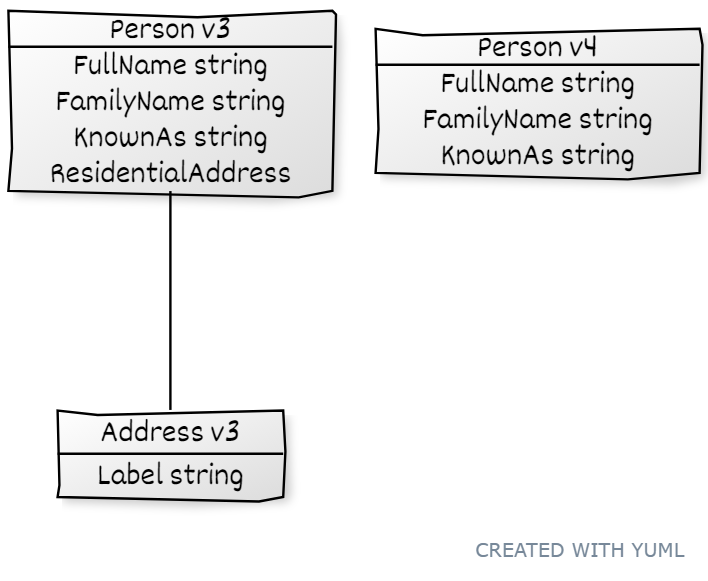
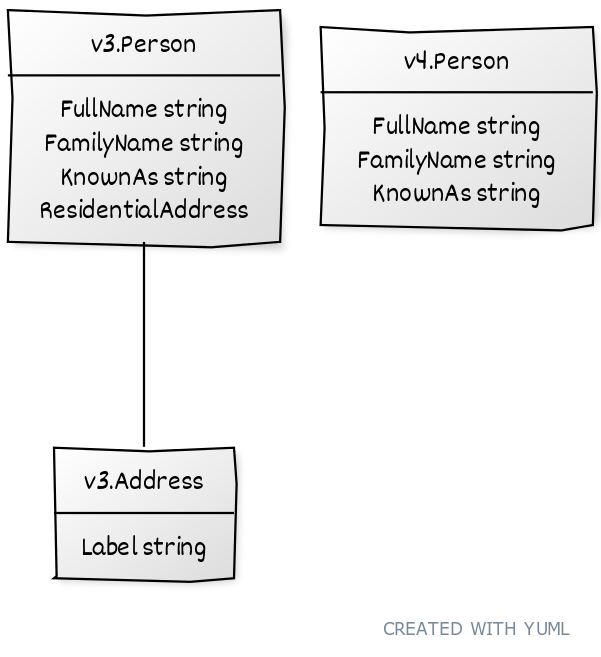
Update draft

Changed region(s): [[0.0, 0.0, 0.4792, 0.8985], [0.5092, 0.031, 1.0, 0.3718], [0.629, 0.9294, 0.9584, 0.9914]]

diff --git a/docs/hugo/content/design/ADR-2023-09-Skipping-Properties/_index.md b/docs/hugo/content/design/ADR-2023-09-Skipping-Properties/_index.md
@@ -4,7 +4,7 @@ title: 2023-09 Complex Properties that Skip Versions
 
 ## Context
 
-We have a long standing issue (originally documented in [#1776](https://github.com/Azure/azure-service-operator/issues/1776)) where our conversions between versions will break if a complex (object valued) property is reintroduced in a later version after being removed in an earlier one.
+We have a long standing issue (originally documented in [#1776](https://github.com/Azure/azure-service-operator/issues/1776)) where our conversions between versions will break if a complex (object valued) property is reintroduced with a different shape in a later version after being removed in an earlier one.
 
 **TL;DR:** The crux of the problem is that we can currently end up with two different versions (shapes) of the same property serialized in a property bag on the same intermediate version.
 
@@ -15,9 +15,9 @@ To clarify, consider the following examples, demonstrating the current behaviour
 Consider a CRM system containing details of people. In **v3** of the system, we capture each person's residental address, but in **v4** we have dropped that property.
 
 <!-- yuml.me
-[Person v3|FullName string;FamilyName string; KnownAs string;ResidentialAddress]
-[Person v3]--[Address v3|Label string]
-[Person v4|FullName string;FamilyName string; KnownAs string]
+[v3.Person|FullName string;FamilyName string; KnownAs string;ResidentialAddress]
+[v3.Person]--[v3.Address|Label string]
+[v4.Person|FullName string;FamilyName string; KnownAs string]
 -->
 
 {{< figure src="version-4.png" >}}
@@ -33,9 +33,9 @@ Conversion back and forward between versions **v3** and **v4** works fine.
 In **v5**, the `ResidentialAddress` is reintroduced, but with a different shape. Instead of being the single field `Label`, it now has multiple fields.
 
 <!-- yuml.me 
-[Person v4|FullName string;FamilyName string; KnownAs string|PropertyBag PropertyBag]
-[Person v5|FullName string;FamilyName string; KnownAs string;ResidentialAddress|PropertyBag PropertyBag]
-[Person v5]--[Address v5|Street string;Suburb string;City string|PropertyBag PropertyBag]
+[v4.Person|FullName string;FamilyName string; KnownAs string|PropertyBag PropertyBag]
+[v5.Person|FullName string;FamilyName string; KnownAs string;ResidentialAddress|PropertyBag PropertyBag]
+[v5.Person]--[v5.Address|Street string; Suburb string; City string|PropertyBag PropertyBag]
 -->
 
 {{< figure src="version-5.png" >}}
@@ -48,27 +48,31 @@ Conversion back and forward between versions **v4** and **v5** works fine.
 
 ### The Problem
 
-Observe how we can end up with two different variants of **v4** `Person`. We can end up with one where the property bag contains a **v3** `Address` or we can end up with one where the property bag contains a **v5** `Address`.
+Observe how we can end up with two different variants of **v4** `Person`. In one case, we have a **v4** `Person` where the property bag contains a **v3** `Address`; in the other case, we have a **v4** `Person` the property bag contains a **v5** `Address`.
 
 Here is where we run into problems.
 
 <!-- yuml.me
-[Person v3|FullName string;FamilyName string; KnownAs string;ResidentialAddress]
-[Person v3]--[Address v3|Label string]
-[Person v4|FullName string;FamilyName string; KnownAs string|PropertyBag PropertyBag]
-[Person v5|FullName string;FamilyName string; KnownAs string;ResidentialAddress|PropertyBag PropertyBag]
-[Person v5]--[Address v5|Street string;Suburb string;City string|PropertyBag PropertyBag]
+[v3.Person|FullName string;FamilyName string; KnownAs string;ResidentialAddress]
+[v3.Person]--[v3.Address|Label string]
+[v4.Person|FullName string;FamilyName string; KnownAs string|PropertyBag PropertyBag]
+[v5.Person|FullName string;FamilyName string; KnownAs string;ResidentialAddress|PropertyBag PropertyBag]
+[v5.Person]--[v5.Address|Street string; Suburb string;City string|PropertyBag PropertyBag]
 -->
 
 {{< figure src="problem.png" >}}
 
-When we convert from **v3** to **v4** to **v5** we end up stuck part way through. 
+When we convert from **v3** to **v4** to **v5** we end up stuck part-way through. 
 
 After our first conversion step, we have a **v4** `Person` that contains a **v3** `Address` in the property bag. 
 
-Conversion to the **v5** `Person` will fail when we try to deserialize a **v5** `Address` from the **v3** version in the property bag. We can't populate a **v3** `Address` from a serialized **v5* `Address`, the two are not compatible, and the conversion will fail. This will cause the operator to fail.
+Conversion to the **v5** `Person` will fail when we try to deserialize a **v5** `Address` from the **v3** version in the property bag. 
 
-In the other direction, from **v5** to **v4** to **v3** we end up with a **v3** `Person` that contains a **v5** `Address` in the property bag, and a similar problem occurs. We can't populate a **v5** `Address` from a serialized **v3** `Address`, The two are not compatible, and the conversion will fail.
+We can't populate a **v3** `Address` from a serialized **v5* `Address`, the two are not compatible, and the conversion will fail. 
+
+This will cause the operator to fail.
+
+In the opposite direction, from **v5** to **v4** to **v3**, we end up with a **v4** `Person` that contains a **v5** `Address` in the property bag, and a similar problem occurs. We can't populate a **v3** `Address` from a serialized **v5** `Address`, The two are not compatible, and the conversion will fail.
 
 
 ### Complications
@@ -83,40 +87,68 @@ However we choose to fix this problem, the introduction of a new resource versio
 
 The example shown here has the new property returning after just one version; we need to handle the case where the property returns after a hiatis of several versions.
 
-#### Type changes
+#### Other PropertyBag use
 
-This example shows the shape of the complex type changing between versions. 
+The skipping-property problem is an edge case that emerges from the way we use the `PropertyBag` to maintain the conversion contract required by Kubernetes. 
 
-Consider how things would change if the `ResidentialAddress` on **v3** `Person` was a simple string - instead of the property bag containing an object to deserialize, the **v5** `Address` would find a simple string.
+When converting a resource to an earlier version, properties introduced in that later version get stored in the `PropertyBag` on the earlier version to ensure they're not lost.
 
-### Proposed Solution
+Similarly, when converting a resource to a later version, properties removed from that later version get stored in the `PropertyBag` of the later version to ensure they are not lost.
 
-Ensure that complex types stored in property bags have a consistent shape by introducing a dedicated type for that purpose.
+### Option 1: Introduce Intermediate Type
+
+Ensure that complex types stored in property bags have a consistent shape by introducing a dedicated type for that purpose. Regardless of whether the property bag is populated by an earlier version (e.g. a **v3** `Address`) or a later version (e.g. a **v5** `Address`), the shape of the object stored property bag will be the same (**v4**).
 
 <!-- yuml.me
-[Person v3|FullName string;FamilyName string; KnownAs string;ResidentialAddress]
-[Person v3]--[Address v3|Label string]
-[Person v4|FullName string;FamilyName string; KnownAs string|PropertyBag PropertyBag]-.-[Address v4|Label string {bg:cornsilk}]
-[Person v5|FullName string;FamilyName string; KnownAs string;ResidentialAddress|PropertyBag PropertyBag] 
-[Person v5]--[Address v5|Street string; Suburb string; City string|PropertyBag PropertyBag]
+[v3.Person|FullName string;FamilyName string; KnownAs string;ResidentialAddress]
+[v3.Person]--[v3.Address|Label string]
+[v4.Person|FullName string;FamilyName string; KnownAs string|PropertyBag PropertyBag]..[v4.Address|Label string {bg:cornsilk}]
+[v5.Person|FullName string;FamilyName string; KnownAs string;ResidentialAddress|PropertyBag PropertyBag] 
+[v5.Person]--[v5.Address|Street string; Suburb string; City string|PropertyBag PropertyBag]
 -->
 
-{{< figure src="solution.png" >}}
+{{< figure src="option-1.png" >}}
 
-We replicate the structure of the version _before_ when synthesizing the intermediate type.
+We create the shape of the intermediate type by replicating the structure of the version _before_ (**v3**), essentially just copying it forward to the new version (**v4**).
 
-When we convert from **v3** to **v4**, we first convert the **v3** `Address` into a **v4** `Address`  before storing it in the property bag.
+When we convert from **v3** to **v4**, we first convert the **v3** `Address` into a **v4** `Address` before storing it in the property bag.
 
 Then, when converting from **v4** to **v5**, we rehydrate a **v4** `Address` from the property bag and then convert that to a **v5** `Address`.
 
 The process for conversion from **v5** to **v4** to **v3** is the reverse. We convert the **v5** `Address` into a **v4** `Address` before storing it in the property bag, and then rehydrate a **v4** `Address` from the property bag and convert that to a **v3** `Address`.
 
-While this might seem to just _kick the can down the road_, our conversion framework already has support for customization of the conversions between adjacent versions of a type, allowing the mismatch between **v4** and **v5** of `Address` to be handled by augmenting the conversion. 
+While this might seem to just _kick the can down the road_, our conversion framework already has support for customization of the conversions between adjacent versions of a type, allowing the mismatch between **v4** and **v5** of `Address` to be handled by augmenting the conversion.
 
-#### Backward Compatibility
+Pros:
+* Addresses the central inconsistency problem, ensuring we always serialize the same shape into intermediate property bags
+* Preserves the serialization format for existing resource versions (e.g. **v3** and **v4**)
 
-With the shape of the introduced type being the same as the shape of the type in the version _before_ the skip, deserialization will _just work_. 
+Cons:
+* Changes the object model of released resources, a breaking change for consumers of the object model
+* When there are multi-generational skips, other questions arise: Do we introduce the new type into every intermediate version, only the last, or both first and last? Each approach has advantages and drawbacks.
 
+Fatal:
+* The **v4** package already has a reference to **v5**. The Go compiler's rules prohibiting circular package dependencies preclude adding a reference to **v4** from **v5**.
+
+### Option 2: Introduce Conversion Type
+
+As for Option 1, but instead of introducing the new type into **v4** where it can't be referenced by **v5**, use a dedicated **v5/compat** subpackage.
+
+<!-- yuml.me
+[v3.Person|FullName string;FamilyName string; KnownAs string;ResidentialAddress]
+[v3.Person]--[v3.Address|Label string]
+[v4.Person|FullName string;FamilyName string; KnownAs string|PropertyBag PropertyBag]..[v4.Address|Label string {bg:cornsilk}]
+[v5.Person|FullName string;FamilyName string; KnownAs string;ResidentialAddress|PropertyBag PropertyBag] 
+[v5.Person]--[v5.Address|Street string; Suburb string; City string|PropertyBag PropertyBag]
+-->
+
+The invariant we need to maintain here is that the **v5/compat** version of `Address` needs to have the same exact shape as the **v3** version of `Address`.
+
+Pros:
+* Addresses the central inconsistency problem, ensuring we always serialize the same shape into intermediate property bags
+* Preserves the serialization format for existing resource versions (e.g. **v3** and **v4**)
+* Does not change the object model for released code
+* Isolates types introduced for compatibility purposes in a dedicated subpackage, avoiding the problem of circular dependencies.
 
 ## Decision
 
